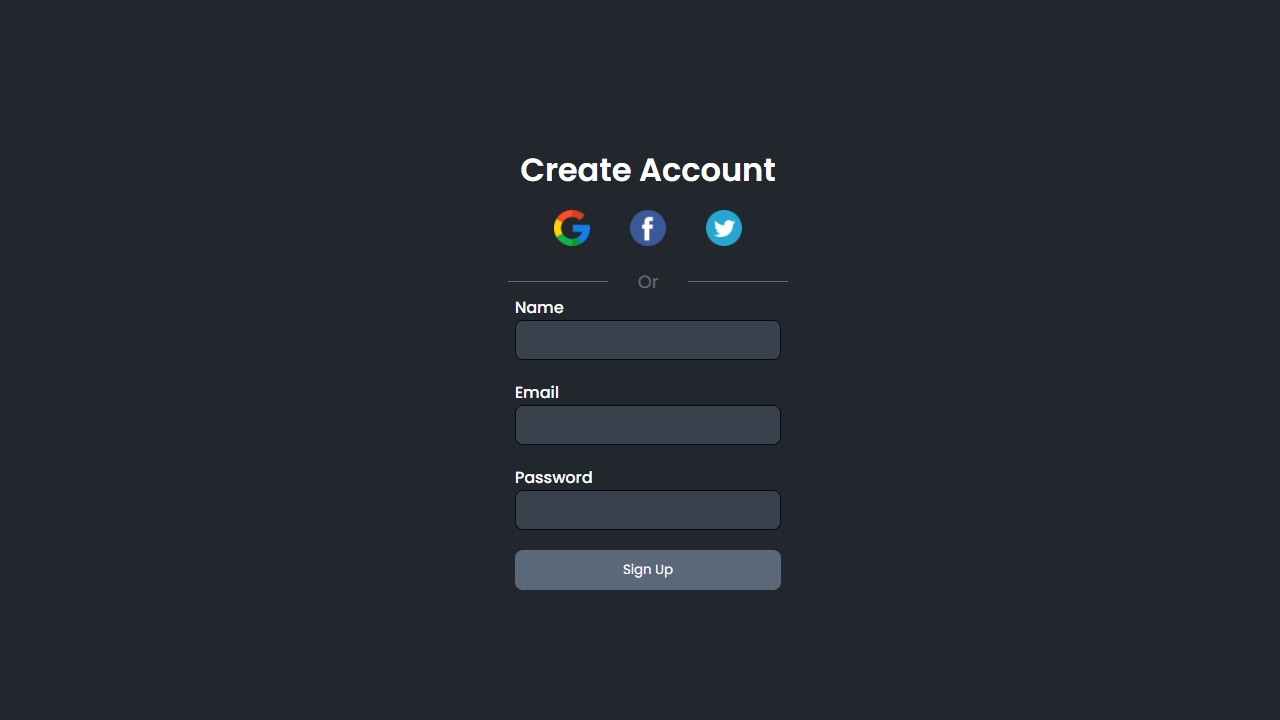
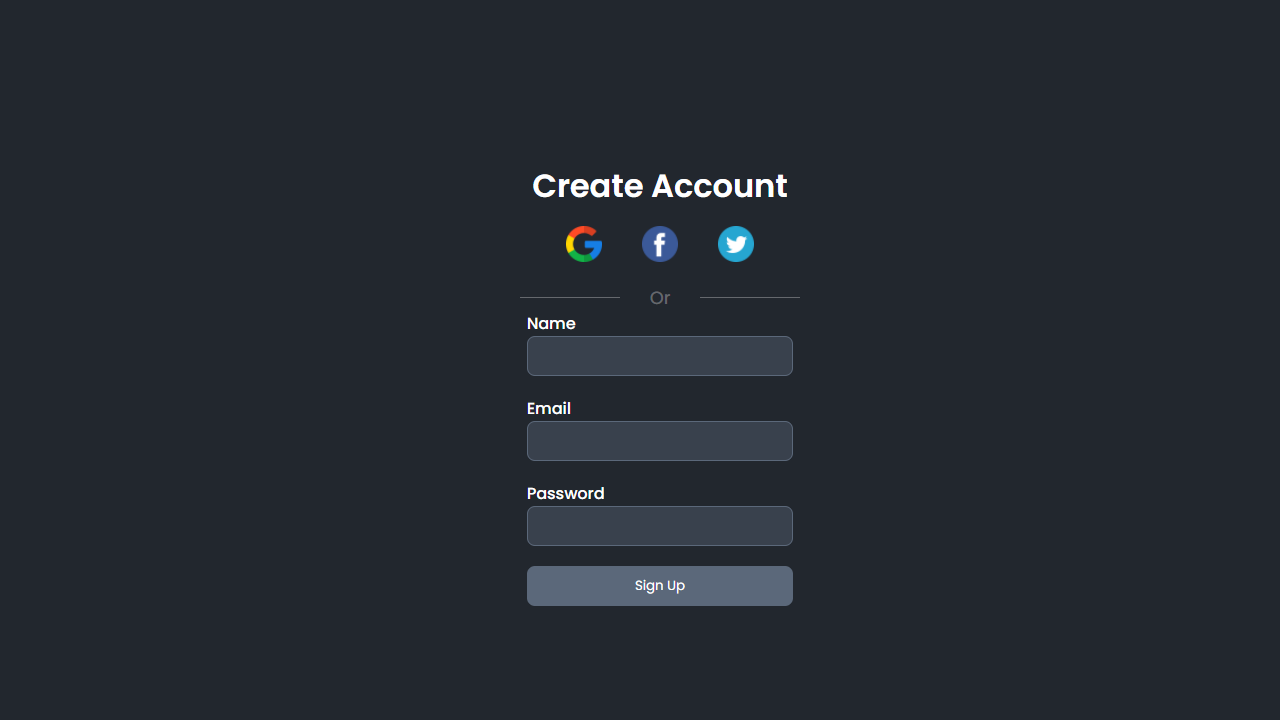
Cor da borda dos inputs alterada

Changed region(s): [[0.375, 0.2139, 0.625, 0.8556]]

diff --git a/main.css b/main.css
@@ -79,7 +79,7 @@ main form label {
 main form input {
     height: 3em;
     width: 20em;
-    border: 1px solid #040B18;
+    border: 1px solid #5B687A;
     border-radius: 8px;
     margin-bottom: 1.5em;
     background-color: #39414D;
